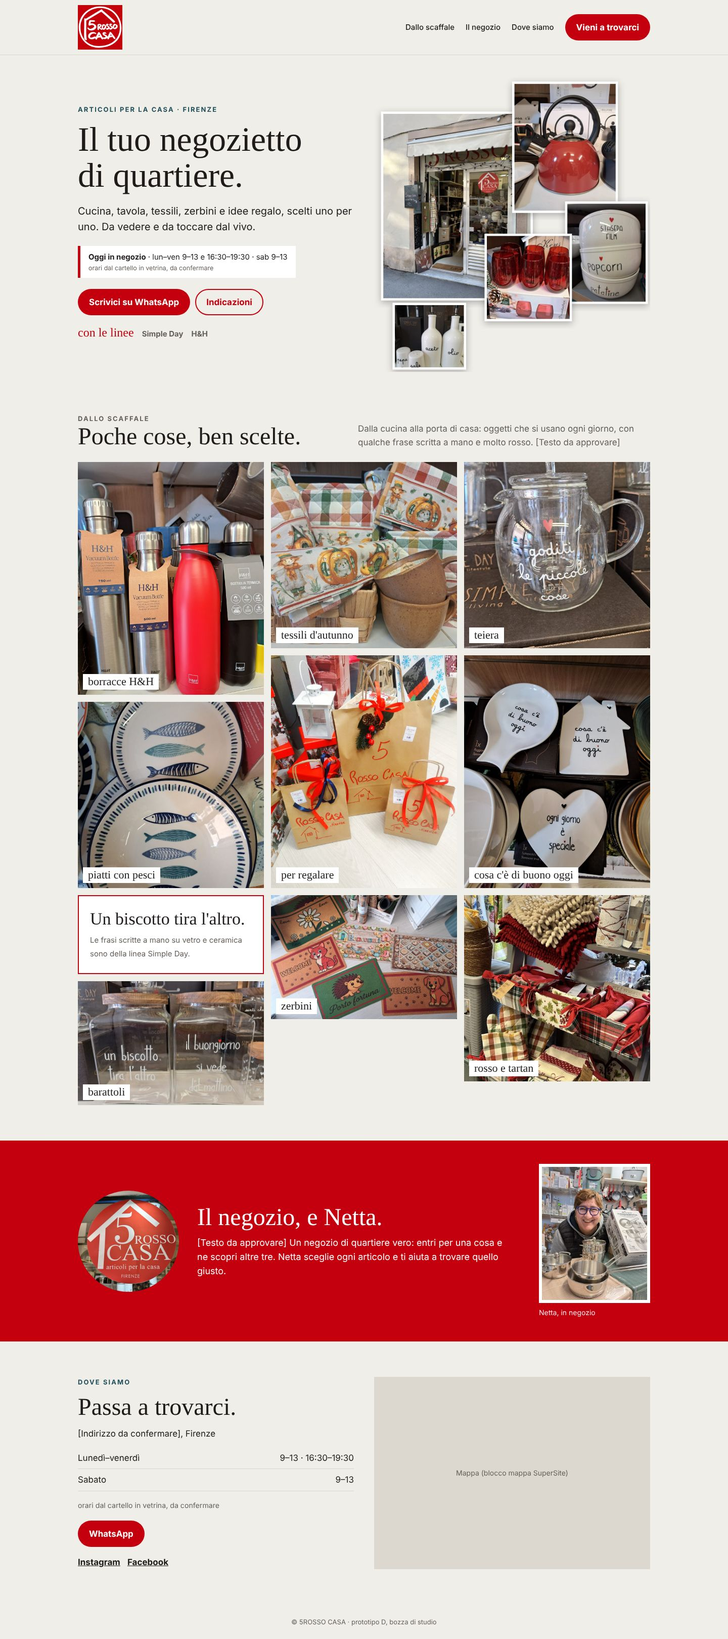
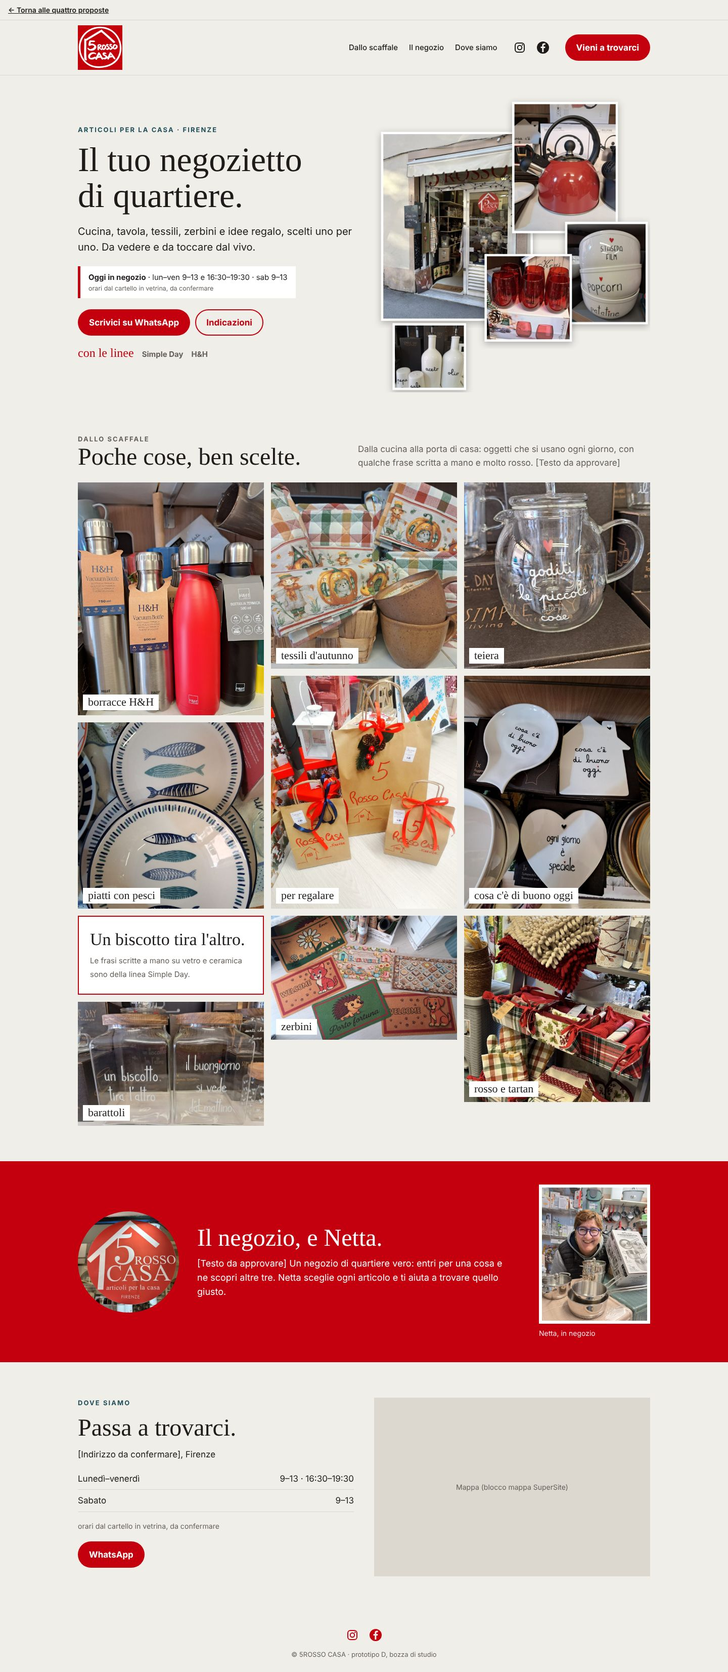
Icone Facebook/Instagram, comando di ritorno e navigazione nella stessa scheda
- icone SVG locali (Instagram, Facebook) in header e footer di A-D, link verificati, aperti in nuova scheda con etichette accessibili
- barra «Torna alle quattro proposte» (link diretto, fissa) in ciascun prototipo
- link interni senza target=_blank; rimossi href="#" dai pulsanti
- anteprime rigenerate

Claude-Session: https://claude.ai/code/session_01Wie8PVtFxXNJm6k2L4bQJj

diff --git a/B/index.html b/B/index.html
@@ -7,7 +7,7 @@
 img{display:block;width:100%;height:100%;object-fit:cover}a{color:inherit;text-decoration:none}
 .app{display:grid;grid-template-columns:300px 1fr;min-height:100vh}
 /* colonna indice fissa: l'architettura è l'indice */
-.rail{position:sticky;top:0;height:100vh;border-right:1px solid var(--riga);padding:24px;display:flex;flex-direction:column;gap:18px;overflow:auto}
+.rail{position:sticky;top:40px;height:calc(100vh - 40px);border-right:1px solid var(--riga);padding:24px;display:flex;flex-direction:column;gap:18px;overflow:auto}
 .rail img.logo{width:136px;height:auto}.rail h1{font:700 30px/1.05 'Archivo Narrow',sans-serif;text-transform:uppercase;margin:0}
 .rail ol{list-style:none;margin:0;padding:0;border-top:1px solid var(--riga)}.rail li a{display:flex;gap:12px;padding:10px 0;border-bottom:1px solid #0002;font-weight:500}
 .rail li a span{font:700 13px 'Archivo Narrow';color:var(--rosso);width:24px;padding-top:3px}.rail li a:hover{background:#f4efe9}
@@ -15,7 +15,7 @@ img{display:block;width:100%;height:100%;object-fit:cover}a{color:inherit;text-d
 .chips{display:none}.brand{display:none}
 main{min-width:0}
 /* primo schermo: mosaico fotografico rigido con gutter sottili */
-.bento{height:100vh;display:grid;grid-template-columns:repeat(6,1fr);grid-template-rows:repeat(4,1fr);gap:2px;background:var(--riga)}
+.bento{height:calc(100vh - 40px);display:grid;grid-template-columns:repeat(6,1fr);grid-template-rows:repeat(4,1fr);gap:2px;background:var(--riga)}
 .bento a{position:relative;overflow:hidden;background:#fff}.bento a b{position:absolute;left:0;bottom:0;background:#fff;font:700 12px 'Archivo Narrow';text-transform:uppercase;letter-spacing:.08em;padding:4px 8px}
 .bento a:nth-child(1){grid-column:1/4;grid-row:1/4}.bento a:nth-child(2){grid-column:4/7;grid-row:1/3}.bento a:nth-child(3){grid-column:4/5;grid-row:3/5}
 .bento a:nth-child(4){grid-column:5/7;grid-row:3/5}.bento a:nth-child(5){grid-column:1/2;grid-row:4/5}.bento a:nth-child(6){grid-column:2/4;grid-row:4/5}
@@ -34,19 +34,21 @@ figcaption{position:absolute;left:0;bottom:0;background:#fff;padding:5px 10px;fo
 @media(max-width:860px){
  .app{display:block}.rail{display:none}
  .brand{display:flex;align-items:center;gap:14px;padding:14px 16px;border-bottom:1px solid var(--riga)}.brand img{width:96px;height:96px;flex:none}.brand b{font:700 24px/1.05 'Archivo Narrow',sans-serif;text-transform:uppercase}
- .chips{display:flex;gap:8px;overflow-x:auto;position:sticky;top:0;z-index:9;background:#fff;border-bottom:1px solid var(--riga);padding:10px 12px;align-items:center}
+ .chips{display:flex;gap:8px;overflow-x:auto;position:sticky;top:40px;z-index:9;background:#fff;border-bottom:1px solid var(--riga);padding:10px 12px;align-items:center}
  .chips img{width:34px;height:34px;flex:none}.chips a{flex:none;border:1px solid var(--riga);padding:6px 12px;font:700 13px 'Archivo Narrow';text-transform:uppercase}
  .bento{height:auto;grid-template-columns:1fr 1fr;grid-template-rows:none;grid-auto-rows:44vw}.bento a:nth-child(n){grid-column:auto;grid-row:auto}.bento a:nth-child(1){grid-column:1/3;grid-row:span 2}
  .fam header{grid-template-columns:44px 1fr;padding:16px}.fam header p{grid-column:2}.fam header .n{font-size:30px}.fam header h2{font-size:26px}
  .mod{grid-template-columns:1fr 1fr;grid-template-rows:auto}.mod .lead,.mod .lead.w{grid-column:1/3;grid-row:auto;aspect-ratio:1}.mod .s{aspect-ratio:1;min-height:auto}.bento a:nth-child(6){grid-column:1/3}.mod .lead.w{aspect-ratio:3/2}
  .linee,.dove{grid-template-columns:1fr}.linee div{border-right:0;border-bottom:1px solid var(--riga)}.negozio{grid-template-columns:140px 1fr;padding:16px}}
-</style></head><body>
+.soc{display:flex;align-items:center;gap:2px}.soc .ic{display:inline-grid;place-items:center;width:44px;height:44px;color:inherit;text-decoration:none;border-radius:50%}.soc .ic svg{width:24px;height:24px;display:block}.soc .ic:focus-visible,.back:focus-visible{outline:2px solid currentColor;outline-offset:2px}html{scroll-padding-top:40px}body{padding-top:40px}.back{position:fixed;top:0;left:0;right:0;height:40px;z-index:100;display:flex;align-items:center;padding:0 16px;font-size:14px;font-weight:600;line-height:1;text-decoration:none;border-bottom:1px solid}.back:hover{text-decoration:underline}.back{background:#fff;color:#16120f;border-color:#16120f;font-family:'Archivo Narrow',Archivo,sans-serif;text-transform:uppercase;letter-spacing:.06em}.rail .soc{margin:-8px 0 -4px -10px}.brand .soc{margin:2px 0 0 -10px}.dove .soc{margin:12px 0 0 -10px;color:#f5eee6}</style></head><body>
+<svg width="0" height="0" style="position:absolute" aria-hidden="true" focusable="false"><symbol id="i-ig" viewBox="0 0 24 24"><rect x="3" y="3" width="18" height="18" rx="5" fill="none" stroke="currentColor" stroke-width="2"/><circle cx="12" cy="12" r="4.2" fill="none" stroke="currentColor" stroke-width="2"/><circle cx="17.4" cy="6.6" r="1.3" fill="currentColor"/></symbol><symbol id="i-fb" viewBox="0 0 24 24"><path fill="currentColor" fill-rule="evenodd" d="M12 0a12 12 0 1 0 0 24 12 12 0 0 0 0-24zM13.4 21v-8h2.7l.4-3.1h-3.1V8c0-.9.3-1.5 1.6-1.5h1.7V3.7c-.3 0-1.3-.1-2.4-.1-2.4 0-4 1.4-4 4.1v2.2H7.6V13h2.7v8h3.1z"/></symbol></svg>
+<a class="back" href="../index.html">← Torna alle quattro proposte</a>
 <div class="app">
-<aside class="rail"><img class="logo" src="../img/logo_5rossocasa_hand2_web.png" alt="Logo 5 Rosso Casa"><h1>Tutto per la casa, in sei famiglie.</h1>
+<aside class="rail"><img class="logo" src="../img/logo_5rossocasa_hand2_web.png" alt="Logo 5 Rosso Casa"><h1>Tutto per la casa, in sei famiglie.</h1><div class="soc"><a class="ic" href="https://www.instagram.com/5rosso_casa_/" target="_blank" rel="noopener noreferrer" aria-label="Instagram di 5 Rosso Casa (si apre in una nuova scheda)" title="Instagram · si apre in una nuova scheda"><svg aria-hidden="true" focusable="false"><use href="#i-ig"/></svg></a><a class="ic" href="https://www.facebook.com/5rossoflorence/?locale=it_IT" target="_blank" rel="noopener noreferrer" aria-label="Facebook di 5 Rosso Casa (si apre in una nuova scheda)" title="Facebook · si apre in una nuova scheda"><svg aria-hidden="true" focusable="false"><use href="#i-fb"/></svg></a></div>
 <ol><li><a href="#f1"><span>01</span>Tavola</a></li><li><a href="#f2"><span>02</span>Cucina</a></li><li><a href="#f3"><span>03</span>Dispensa e vetro</a></li><li><a href="#f4"><span>04</span>Tessili</a></li><li><a href="#f5"><span>05</span>Ingresso</a></li><li><a href="#f6"><span>06</span>Regali e dettagli</a></li><li><a href="#linee"><span>+</span>Le due linee</a></li><li><a href="#dove"><span>→</span>Dove siamo</a></li></ol>
 <div class="hrs"><b>5 Rosso Casa · Firenze</b><br>Lun–ven 9–13 · 16:30–19:30<br>Sab 9–13</div></aside>
 <main>
-<div class="brand"><img src="../img/logo_5rossocasa_hand2_web.png" alt="Logo 5 Rosso Casa"><b>Tutto per la casa, in sei famiglie.</b></div>
+<div class="brand"><img src="../img/logo_5rossocasa_hand2_web.png" alt="Logo 5 Rosso Casa"><div><b>Tutto per la casa, in sei famiglie.</b><div class="soc"><a class="ic" href="https://www.instagram.com/5rosso_casa_/" target="_blank" rel="noopener noreferrer" aria-label="Instagram di 5 Rosso Casa (si apre in una nuova scheda)" title="Instagram · si apre in una nuova scheda"><svg aria-hidden="true" focusable="false"><use href="#i-ig"/></svg></a><a class="ic" href="https://www.facebook.com/5rossoflorence/?locale=it_IT" target="_blank" rel="noopener noreferrer" aria-label="Facebook di 5 Rosso Casa (si apre in una nuova scheda)" title="Facebook · si apre in una nuova scheda"><svg aria-hidden="true" focusable="false"><use href="#i-fb"/></svg></a></div></div></div>
 <div class="chips"><img src="../img/logo_5rossocasa_hand2_web.png" alt="Logo" style="height:34px"><a href="#f1">01 Tavola</a><a href="#f2">02 Cucina</a><a href="#f3">03 Dispensa</a><a href="#f4">04 Tessili</a><a href="#f5">05 Ingresso</a><a href="#f6">06 Regali</a><a href="#dove">Dove</a></div>
 <div class="bento">
 <a href="#f2"><img src="../img/hh_bollitori_rosso_grigio.jpg" alt="Bollitori rosso e grigio"><b>Cucina</b></a>
@@ -88,5 +90,5 @@ figcaption{position:absolute;left:0;bottom:0;background:#fff;padding:5px 10px;fo
 
 <section class="linee" id="linee"><div><h3>Simple Day</h3><p>Ceramiche e vetri con frasi scritte a mano.</p></div><div><h3>H&amp;H</h3><p>Pentole, bollitori e borracce.</p></div></section>
 <section class="negozio"><img src="../img/netta_con_pentole.jpg" alt="Netta, titolare del negozio"><div><b>Il negozio.</b> [Testo da approvare] Non è un catalogo: i prodotti si vedono dal vivo. Chiedi a Netta.</div></section>
-<section class="dove" id="dove"><div><h2 style="font:700 34px 'Archivo Narrow';text-transform:uppercase;margin:0 0 10px">Dove siamo</h2><p>[Indirizzo da confermare], Firenze<br>Lun–ven 9–13 · 16:30–19:30 · sab 9–13<br><small>(orari dal cartello, da confermare)</small></p><p><a class="btn" href="#">WhatsApp</a> &nbsp; <a href="#" style="text-decoration:underline">Instagram</a> · <a href="#" style="text-decoration:underline">Facebook</a></p></div><div class="map">Mappa (blocco mappa SuperSite)</div></section>
+<section class="dove" id="dove"><div><h2 style="font:700 34px 'Archivo Narrow';text-transform:uppercase;margin:0 0 10px">Dove siamo</h2><p>[Indirizzo da confermare], Firenze<br>Lun–ven 9–13 · 16:30–19:30 · sab 9–13<br><small>(orari dal cartello, da confermare)</small></p><p><a class="btn" role="link" aria-disabled="true" title="Numero WhatsApp da confermare">WhatsApp</a> </p><div class="soc"><a class="ic" href="https://www.instagram.com/5rosso_casa_/" target="_blank" rel="noopener noreferrer" aria-label="Instagram di 5 Rosso Casa (si apre in una nuova scheda)" title="Instagram · si apre in una nuova scheda"><svg aria-hidden="true" focusable="false"><use href="#i-ig"/></svg></a><a class="ic" href="https://www.facebook.com/5rossoflorence/?locale=it_IT" target="_blank" rel="noopener noreferrer" aria-label="Facebook di 5 Rosso Casa (si apre in una nuova scheda)" title="Facebook · si apre in una nuova scheda"><svg aria-hidden="true" focusable="false"><use href="#i-fb"/></svg></a></div></div><div class="map">Mappa (blocco mappa SuperSite)</div></section>
 </main></div></body></html>

diff --git a/C/index.html b/C/index.html
@@ -6,7 +6,7 @@
 *{box-sizing:border-box}html{scroll-behavior:smooth;scroll-snap-type:y proximity}body{margin:0;background:var(--bg);color:var(--chiaro);font:17px/1.5 'Bricolage Grotesque',system-ui,sans-serif}
 img{display:block;width:100%;height:100%;object-fit:cover}a{color:inherit}
 .scene{position:relative;min-height:100svh;scroll-snap-align:start;overflow:hidden}
-.logo{position:fixed;top:16px;left:18px;z-index:20;width:clamp(104px,9vw,132px);transition:width .25s ease}.logo.sm{width:60px}.logo img{height:auto;box-shadow:0 2px 14px #0006}
+.logo{position:fixed;top:56px;left:18px;z-index:20;width:clamp(104px,9vw,132px);transition:width .25s ease}.logo.sm{width:60px}.logo img{height:auto;box-shadow:0 2px 14px #0006}
 .dots{position:fixed;right:16px;top:50%;transform:translateY(-50%);z-index:20;display:grid;gap:12px}.dots a{width:11px;height:11px;border-radius:50%;border:2px solid #fff;display:block;background:#0008}
 .big{font:700 clamp(54px,11vw,190px)/.88 'Bricolage Grotesque';letter-spacing:-.03em;margin:0}.hand{font:600 clamp(26px,3vw,40px) Caveat;color:#ffb3b3}
 /* 0 apertura: un solo macro-dettaglio a tutto schermo */
@@ -27,12 +27,15 @@ img{display:block;width:100%;height:100%;object-fit:cover}a{color:inherit}
 .s4 .in{padding:90px 34px 34px;display:flex;flex-direction:column;justify-content:center;gap:14px;background:var(--chiaro);color:#241f1d}
 .btn{display:inline-block;background:var(--rosso);color:#fff;text-decoration:none;font-weight:700;padding:13px 22px;border-radius:999px}.map{background:#d9cdbb;min-height:160px;display:grid;place-items:center;color:#7a7063;font-size:14px}
 @media(max-width:800px){
- html{scroll-snap-type:none}.dots{display:none}.logo{width:88px;top:12px;left:12px}.logo.sm{width:48px}.s0 .t{flex-direction:column;align-items:flex-start;gap:6px}
+ html{scroll-snap-type:none}.dots{display:none}.logo{width:88px;top:52px;left:12px}.logo.sm{width:48px}.s0 .t{flex-direction:column;align-items:flex-start;gap:6px}
  .s1{padding-top:70px}.s1 .row{grid-template-columns:1fr 1fr;gap:8px}.s1 .row div:nth-child(3){grid-column:1/3;grid-row:1}.s1 .row div:nth-child(1){grid-row:2}.s1 .row div:nth-child(2){grid-row:2;align-self:start}.wide img{aspect-ratio:4/3}
  .s2{padding:70px 4vw}.s2 .collage{display:block}.s2 .collage div{margin-top:-10vw;position:relative}.s2 .collage div:first-child{margin-top:0}.c1{width:92%}.c2{width:60%;margin-left:36%}.c3{width:70%}.c4{width:52%;margin-left:44%}.c1 img,.c3 img{aspect-ratio:1}.c2 img,.c4 img{aspect-ratio:4/5}
  .s3 .three{grid-template-columns:1fr 1fr 1fr}.s4{display:block}.s4 .ph{min-height:70svh}.s4 .ph .polaroid{width:46vw;left:14px;bottom:16px}.s4 .in{padding:36px 20px}}
-</style></head><body>
+.soc{display:flex;align-items:center;gap:2px}.soc .ic{display:inline-grid;place-items:center;width:44px;height:44px;color:inherit;text-decoration:none;border-radius:50%}.soc .ic svg{width:24px;height:24px;display:block}.soc .ic:focus-visible,.back:focus-visible{outline:2px solid currentColor;outline-offset:2px}html{scroll-padding-top:40px}body{padding-top:40px}.back{position:fixed;top:0;left:0;right:0;height:40px;z-index:100;display:flex;align-items:center;padding:0 16px;font-size:14px;font-weight:600;line-height:1;text-decoration:none;border-bottom:1px solid}.back:hover{text-decoration:underline}.back{background:#171210;color:#f4ebe0;border-color:#ffffff30;font-family:'Bricolage Grotesque',system-ui,sans-serif}.socf{position:fixed;top:52px;right:14px;z-index:20;background:#171210cc;color:#f4ebe0;border-radius:999px;padding:2px 6px;box-shadow:0 2px 12px #0006;backdrop-filter:blur(4px)}.s4 .in .soc{color:#241f1d;margin-left:-10px}</style></head><body>
+<svg width="0" height="0" style="position:absolute" aria-hidden="true" focusable="false"><symbol id="i-ig" viewBox="0 0 24 24"><rect x="3" y="3" width="18" height="18" rx="5" fill="none" stroke="currentColor" stroke-width="2"/><circle cx="12" cy="12" r="4.2" fill="none" stroke="currentColor" stroke-width="2"/><circle cx="17.4" cy="6.6" r="1.3" fill="currentColor"/></symbol><symbol id="i-fb" viewBox="0 0 24 24"><path fill="currentColor" fill-rule="evenodd" d="M12 0a12 12 0 1 0 0 24 12 12 0 0 0 0-24zM13.4 21v-8h2.7l.4-3.1h-3.1V8c0-.9.3-1.5 1.6-1.5h1.7V3.7c-.3 0-1.3-.1-2.4-.1-2.4 0-4 1.4-4 4.1v2.2H7.6V13h2.7v8h3.1z"/></symbol></svg>
+<a class="back" href="../index.html">← Torna alle quattro proposte</a>
 <a class="logo" href="#s0"><img src="../img/logo_5rossocasa_hand2_web.png" alt="Logo 5 Rosso Casa"></a>
+<div class="soc socf"><a class="ic" href="https://www.instagram.com/5rosso_casa_/" target="_blank" rel="noopener noreferrer" aria-label="Instagram di 5 Rosso Casa (si apre in una nuova scheda)" title="Instagram · si apre in una nuova scheda"><svg aria-hidden="true" focusable="false"><use href="#i-ig"/></svg></a><a class="ic" href="https://www.facebook.com/5rossoflorence/?locale=it_IT" target="_blank" rel="noopener noreferrer" aria-label="Facebook di 5 Rosso Casa (si apre in una nuova scheda)" title="Facebook · si apre in una nuova scheda"><svg aria-hidden="true" focusable="false"><use href="#i-fb"/></svg></a></div>
 <nav class="dots" aria-label="Capitoli"><a href="#s0" title="Inizio"></a><a href="#s1" title="Parole a mano"></a><a href="#s2" title="Il rosso"></a><a href="#s3" title="Sotto i piedi"></a><a href="#s4" title="Vieni a trovarci"></a></nav>
 
 <section class="scene s0" id="s0"><img src="../img/dett_popcorn.jpg" alt="Dettaglio di una ciotola bianca con la scritta popcorn e un cuore rosso"><div class="t"><b>5 Rosso Casa · Firenze</b><span>scorri ↓</span></div></section>
@@ -50,6 +53,6 @@ img{display:block;width:100%;height:100%;object-fit:cover}a{color:inherit}
 <div class="three"><img src="../img/passatoie.jpg" alt="Passatoie con cani e gatti" style="aspect-ratio:4/5"><img src="../img/mosaico_zerbino_albero.jpg" alt="Zerbino albero della vita" style="aspect-ratio:4/5"><img src="../img/zerbini_gomma.jpg" alt="Zerbini in gomma con piante"></div></section>
 
 <section class="scene s4" id="s4"><div class="ph"><img src="../img/hero_facciata_mobile.jpg" alt="Ingresso del negozio 5 Rosso Casa a Firenze" style="object-position:50% 30%"><figure class="polaroid"><img src="../img/netta_piumini_tartan.jpg" alt="Netta, titolare del negozio, sorride tra due paraspifferi in tartan rosso"><figcaption>Netta, in negozio</figcaption></figure></div>
-<div class="in"><div class="hand" style="color:var(--rosso)">ultimo capitolo</div><h2 style="font:700 clamp(36px,4vw,56px)/1 'Bricolage Grotesque';margin:0">Il resto, dal vivo.</h2><p>[Indirizzo da confermare], Firenze<br>Lun–ven 9–13 · 16:30–19:30 · sab 9–13<br><small>(orari dal cartello, da confermare)</small></p><p><a class="btn" href="#">Scrivici su WhatsApp</a></p><p><a href="#">Instagram</a> · <a href="#">Facebook</a></p><div class="map">Mappa (blocco mappa SuperSite)</div></div></section>
+<div class="in"><div class="hand" style="color:var(--rosso)">ultimo capitolo</div><h2 style="font:700 clamp(36px,4vw,56px)/1 'Bricolage Grotesque';margin:0">Il resto, dal vivo.</h2><p>[Indirizzo da confermare], Firenze<br>Lun–ven 9–13 · 16:30–19:30 · sab 9–13<br><small>(orari dal cartello, da confermare)</small></p><p><a class="btn" role="link" aria-disabled="true" title="Numero WhatsApp da confermare">Scrivici su WhatsApp</a></p><div class="soc"><a class="ic" href="https://www.instagram.com/5rosso_casa_/" target="_blank" rel="noopener noreferrer" aria-label="Instagram di 5 Rosso Casa (si apre in una nuova scheda)" title="Instagram · si apre in una nuova scheda"><svg aria-hidden="true" focusable="false"><use href="#i-ig"/></svg></a><a class="ic" href="https://www.facebook.com/5rossoflorence/?locale=it_IT" target="_blank" rel="noopener noreferrer" aria-label="Facebook di 5 Rosso Casa (si apre in una nuova scheda)" title="Facebook · si apre in una nuova scheda"><svg aria-hidden="true" focusable="false"><use href="#i-fb"/></svg></a></div><div class="map">Mappa (blocco mappa SuperSite)</div></div></section>
 <script>(function(){var l=document.querySelector('.logo');function f(){l.classList.toggle('sm',(window.scrollY||document.documentElement.scrollTop)>60)}f();addEventListener('scroll',f,{passive:true})})()</script>
 </body></html>

diff --git a/index.html b/index.html
@@ -33,10 +33,10 @@ th{background:#efe7db;font-size:13px;text-transform:uppercase;letter-spacing:.04
 <header><h1>5ROSSO CASA — quattro proposte a confronto</h1><p>Il negozio come <b>luogo</b> (A), come <b>universo di prodotti</b> (B), come <b>esperienza di scoperta</b> (C) e una <b>sintesi</b> (D). Scorri dentro ogni riquadro per vedere la pagina intera; i pulsanti aprono il prototipo navigabile.</p></header>
 <div class="bar"><button data-v="desktop" class="on" aria-pressed="true">Desktop · pagina intera</button><button data-v="mobile" aria-pressed="false">Mobile · pagina intera</button><button data-v="primo" aria-pressed="false">Primo schermo</button><span class="stw"><button id="st" aria-pressed="false">Confronta le strutture</button><button id="inf" class="inf" type="button" aria-label="Che cosa fa questo pulsante?" aria-expanded="false" aria-controls="infotip">ⓘ</button><span id="infotip" class="tip" role="tooltip" hidden>Questa modalità elimina temporaneamente colori e decorazioni per mostrarti come sono organizzate le quattro pagine. Serve a confrontare le diverse soluzioni indipendentemente dal loro stile grafico.</span></span><div class="sp"></div></div>
 <div class="cols">
-<div class="col"><h2><b>A</b> · Il negozio come luogo</h2><p class="c">Narrazione verticale: dal luogo alle persone, poi i prodotti.</p><div class="frame"><img class="d" src="anteprime/A_desktop_pagina-intera.jpg?v=2" alt="A desktop, pagina intera" loading="lazy"><img class="m" src="anteprime/A_mobile_pagina-intera.jpg?v=2" alt="A mobile, pagina intera" loading="lazy"><img class="pd" src="anteprime/A_desktop_primo-schermo.jpg?v=2" alt="A primo schermo desktop"><img class="pm" src="anteprime/A_mobile_primo-schermo.jpg?v=2" alt="A primo schermo mobile"></div><div class="links"><a href="A/index.html" target="_blank" rel="noopener">Apri prototipo</a><a class="o" href="anteprime/A_desktop_pagina-intera.jpg?v=2" target="_blank">Desktop intera</a><a class="o" href="anteprime/A_mobile_pagina-intera.jpg?v=2" target="_blank">Mobile intera</a></div></div>
-<div class="col"><h2><b>B</b> · Il negozio come universo di prodotti</h2><p class="c">Indice a sei famiglie, moduli fotografici, navigazione per categoria.</p><div class="frame"><img class="d" src="anteprime/B_desktop_pagina-intera.jpg?v=2" alt="B desktop, pagina intera" loading="lazy"><img class="m" src="anteprime/B_mobile_pagina-intera.jpg?v=2" alt="B mobile, pagina intera" loading="lazy"><img class="pd" src="anteprime/B_desktop_primo-schermo.jpg?v=2" alt="B primo schermo desktop"><img class="pm" src="anteprime/B_mobile_primo-schermo.jpg?v=2" alt="B primo schermo mobile"></div><div class="links"><a href="B/index.html" target="_blank" rel="noopener">Apri prototipo</a><a class="o" href="anteprime/B_desktop_pagina-intera.jpg?v=2" target="_blank">Desktop intera</a><a class="o" href="anteprime/B_mobile_pagina-intera.jpg?v=2" target="_blank">Mobile intera</a></div></div>
-<div class="col"><h2><b>C</b> · Il negozio come esperienza di scoperta</h2><p class="c">Capitoli a tutto schermo, cambi di scala; il negozio arriva alla fine.</p><div class="frame"><img class="d" src="anteprime/C_desktop_pagina-intera.jpg?v=2" alt="C desktop, pagina intera" loading="lazy"><img class="m" src="anteprime/C_mobile_pagina-intera.jpg?v=2" alt="C mobile, pagina intera" loading="lazy"><img class="pd" src="anteprime/C_desktop_primo-schermo.jpg?v=2" alt="C primo schermo desktop"><img class="pm" src="anteprime/C_mobile_primo-schermo.jpg?v=2" alt="C primo schermo mobile"></div><div class="links"><a href="C/index.html" target="_blank" rel="noopener">Apri prototipo</a><a class="o" href="anteprime/C_desktop_pagina-intera.jpg?v=2" target="_blank">Desktop intera</a><a class="o" href="anteprime/C_mobile_pagina-intera.jpg?v=2" target="_blank">Mobile intera</a></div></div>
-<div class="col"><h2><b>D</b> · Sintesi: la vetrina composta</h2><p class="c">Apertura con negozio e offerta, muro di foto, Netta, informazioni. La più breve.</p><div class="frame"><img class="d" src="anteprime/D_desktop_pagina-intera.jpg?v=2" alt="D desktop, pagina intera" loading="lazy"><img class="m" src="anteprime/D_mobile_pagina-intera.jpg?v=2" alt="D mobile, pagina intera" loading="lazy"><img class="pd" src="anteprime/D_desktop_primo-schermo.jpg?v=2" alt="D primo schermo desktop"><img class="pm" src="anteprime/D_mobile_primo-schermo.jpg?v=2" alt="D primo schermo mobile"></div><div class="links"><a href="D/index.html" target="_blank" rel="noopener">Apri prototipo</a><a class="o" href="anteprime/D_desktop_pagina-intera.jpg?v=2" target="_blank">Desktop intera</a><a class="o" href="anteprime/D_mobile_pagina-intera.jpg?v=2" target="_blank">Mobile intera</a></div></div>
+<div class="col"><h2><b>A</b> · Il negozio come luogo</h2><p class="c">Narrazione verticale: dal luogo alle persone, poi i prodotti.</p><div class="frame"><img class="d" src="anteprime/A_desktop_pagina-intera.jpg?v=2" alt="A desktop, pagina intera" loading="lazy"><img class="m" src="anteprime/A_mobile_pagina-intera.jpg?v=2" alt="A mobile, pagina intera" loading="lazy"><img class="pd" src="anteprime/A_desktop_primo-schermo.jpg?v=2" alt="A primo schermo desktop"><img class="pm" src="anteprime/A_mobile_primo-schermo.jpg?v=2" alt="A primo schermo mobile"></div><div class="links"><a href="A/index.html">Apri prototipo</a><a class="o" href="anteprime/A_desktop_pagina-intera.jpg?v=2">Desktop intera</a><a class="o" href="anteprime/A_mobile_pagina-intera.jpg?v=2">Mobile intera</a></div></div>
+<div class="col"><h2><b>B</b> · Il negozio come universo di prodotti</h2><p class="c">Indice a sei famiglie, moduli fotografici, navigazione per categoria.</p><div class="frame"><img class="d" src="anteprime/B_desktop_pagina-intera.jpg?v=2" alt="B desktop, pagina intera" loading="lazy"><img class="m" src="anteprime/B_mobile_pagina-intera.jpg?v=2" alt="B mobile, pagina intera" loading="lazy"><img class="pd" src="anteprime/B_desktop_primo-schermo.jpg?v=2" alt="B primo schermo desktop"><img class="pm" src="anteprime/B_mobile_primo-schermo.jpg?v=2" alt="B primo schermo mobile"></div><div class="links"><a href="B/index.html">Apri prototipo</a><a class="o" href="anteprime/B_desktop_pagina-intera.jpg?v=2">Desktop intera</a><a class="o" href="anteprime/B_mobile_pagina-intera.jpg?v=2">Mobile intera</a></div></div>
+<div class="col"><h2><b>C</b> · Il negozio come esperienza di scoperta</h2><p class="c">Capitoli a tutto schermo, cambi di scala; il negozio arriva alla fine.</p><div class="frame"><img class="d" src="anteprime/C_desktop_pagina-intera.jpg?v=2" alt="C desktop, pagina intera" loading="lazy"><img class="m" src="anteprime/C_mobile_pagina-intera.jpg?v=2" alt="C mobile, pagina intera" loading="lazy"><img class="pd" src="anteprime/C_desktop_primo-schermo.jpg?v=2" alt="C primo schermo desktop"><img class="pm" src="anteprime/C_mobile_primo-schermo.jpg?v=2" alt="C primo schermo mobile"></div><div class="links"><a href="C/index.html">Apri prototipo</a><a class="o" href="anteprime/C_desktop_pagina-intera.jpg?v=2">Desktop intera</a><a class="o" href="anteprime/C_mobile_pagina-intera.jpg?v=2">Mobile intera</a></div></div>
+<div class="col"><h2><b>D</b> · Sintesi: la vetrina composta</h2><p class="c">Apertura con negozio e offerta, muro di foto, Netta, informazioni. La più breve.</p><div class="frame"><img class="d" src="anteprime/D_desktop_pagina-intera.jpg?v=2" alt="D desktop, pagina intera" loading="lazy"><img class="m" src="anteprime/D_mobile_pagina-intera.jpg?v=2" alt="D mobile, pagina intera" loading="lazy"><img class="pd" src="anteprime/D_desktop_primo-schermo.jpg?v=2" alt="D primo schermo desktop"><img class="pm" src="anteprime/D_mobile_primo-schermo.jpg?v=2" alt="D primo schermo mobile"></div><div class="links"><a href="D/index.html">Apri prototipo</a><a class="o" href="anteprime/D_desktop_pagina-intera.jpg?v=2">Desktop intera</a><a class="o" href="anteprime/D_mobile_pagina-intera.jpg?v=2">Mobile intera</a></div></div>
 
 </div>
 <script>

diff --git a/A/index.html b/A/index.html
@@ -7,11 +7,11 @@
 img{display:block;width:100%;height:auto}a{color:inherit}
 .serif{font-family:Newsreader,Georgia,serif}
 /* 1 primo schermo: il luogo e le informazioni pratiche */
-.first{position:relative;min-height:100svh;display:grid;grid-template-rows:1fr auto;background:#222}
+.first{position:relative;min-height:calc(100svh - 40px);display:grid;grid-template-rows:1fr auto;background:#222}
 .first picture,.first img{position:absolute;inset:0;width:100%;height:100%;object-fit:cover;object-position:50% 38%}
 .first .top{position:relative;padding:18px 24px;display:flex;justify-content:space-between;align-items:flex-start}
 .first .top img{position:static;width:clamp(100px,10vw,140px);height:auto;box-shadow:0 2px 14px #0006}
-.first .top a{color:#fff;text-decoration:none;font-size:14px;letter-spacing:.08em;text-transform:uppercase;text-shadow:0 1px 6px #0008;margin-left:18px}
+.first .top nav a{color:#fff;text-decoration:none;font-size:14px;letter-spacing:.08em;text-transform:uppercase;text-shadow:0 1px 6px #0008;margin-left:18px}
 .info{position:relative;background:var(--crema);padding:22px 24px;display:grid;grid-template-columns:1.2fr 1fr auto;gap:24px;align-items:center;border-top:6px solid var(--rosso)}
 .info h1{font:500 clamp(28px,3.2vw,42px)/1.1 Newsreader,serif;margin:0}.info small{display:block;color:var(--muto)}
 .btn{display:inline-block;background:var(--rosso);color:#fff;text-decoration:none;font-weight:600;padding:13px 22px;border-radius:3px;margin-right:8px}
@@ -36,13 +36,15 @@ footer{padding:26px;text-align:center;font-size:13px;color:var(--muto)}
 .bar{display:none}
 @media(max-width:800px){
  .first .top img{width:92px}
- .info{grid-template-columns:1fr;padding-bottom:84px}.first .top a{display:none}
- section{padding:56px 0}.cols{display:block}.cols>*+*{margin-top:26px}.s3 .b .small{width:70%}.strip,.two{grid-template-columns:1fr}.strip img{aspect-ratio:3/2}
+ .info{grid-template-columns:1fr;padding-bottom:84px}.first .top nav a{display:none}
+ section{padding:56px 0}footer{padding-bottom:84px}.cols{display:block}.cols>*+*{margin-top:26px}.s3 .b .small{width:70%}.strip,.two{grid-template-columns:1fr}.strip img{aspect-ratio:3/2}
  .bar{display:flex;position:fixed;left:0;right:0;bottom:0;z-index:9;background:var(--rosso);color:#fff;padding:12px 16px;justify-content:space-between;font-weight:600;font-size:15px}.bar a{text-decoration:none}}
-</style></head><body>
+.soc{display:flex;align-items:center;gap:2px}.soc .ic{display:inline-grid;place-items:center;width:44px;height:44px;color:inherit;text-decoration:none;border-radius:50%}.soc .ic svg{width:24px;height:24px;display:block}.soc .ic:focus-visible,.back:focus-visible{outline:2px solid currentColor;outline-offset:2px}html{scroll-padding-top:40px}body{padding-top:40px}.back{position:fixed;top:0;left:0;right:0;height:40px;z-index:100;display:flex;align-items:center;padding:0 16px;font-size:14px;font-weight:600;line-height:1;text-decoration:none;border-bottom:1px solid}.back:hover{text-decoration:underline}.back{background:#F7F0E4;color:#241f1d;border-color:#dccfbb;font-family:'Work Sans',system-ui,sans-serif}.first .top .soc{color:#fff}.first .top .soc svg{filter:drop-shadow(0 1px 5px #000a)}.r{display:flex;align-items:center;gap:10px}footer .soc{justify-content:center;color:var(--rosso);margin-bottom:6px}</style></head><body>
+<svg width="0" height="0" style="position:absolute" aria-hidden="true" focusable="false"><symbol id="i-ig" viewBox="0 0 24 24"><rect x="3" y="3" width="18" height="18" rx="5" fill="none" stroke="currentColor" stroke-width="2"/><circle cx="12" cy="12" r="4.2" fill="none" stroke="currentColor" stroke-width="2"/><circle cx="17.4" cy="6.6" r="1.3" fill="currentColor"/></symbol><symbol id="i-fb" viewBox="0 0 24 24"><path fill="currentColor" fill-rule="evenodd" d="M12 0a12 12 0 1 0 0 24 12 12 0 0 0 0-24zM13.4 21v-8h2.7l.4-3.1h-3.1V8c0-.9.3-1.5 1.6-1.5h1.7V3.7c-.3 0-1.3-.1-2.4-.1-2.4 0-4 1.4-4 4.1v2.2H7.6V13h2.7v8h3.1z"/></symbol></svg>
+<a class="back" href="../index.html">← Torna alle quattro proposte</a>
 <div class="first">
 <picture><source media="(max-width:800px)" srcset="../img/hero_facciata_mobile.jpg"><img src="../img/hero_facciata_desktop.jpg" alt="Ingresso del negozio 5 Rosso Casa a Firenze, con l'insegna rossa e la vetrina"></picture>
-<div class="top"><img src="../img/logo_5rossocasa_hand2_web.png" alt="Logo 5 Rosso Casa"><nav><a href="#soglia">La vetrina</a><a href="#dentro">Dentro</a><a href="#cosa">Cosa trovi</a><a href="#quartiere">Dove siamo</a></nav></div>
+<div class="top"><img src="../img/logo_5rossocasa_hand2_web.png" alt="Logo 5 Rosso Casa"><div class="r"><nav><a href="#soglia">La vetrina</a><a href="#dentro">Dentro</a><a href="#cosa">Cosa trovi</a><a href="#quartiere">Dove siamo</a></nav><div class="soc"><a class="ic" href="https://www.instagram.com/5rosso_casa_/" target="_blank" rel="noopener noreferrer" aria-label="Instagram di 5 Rosso Casa (si apre in una nuova scheda)" title="Instagram · si apre in una nuova scheda"><svg aria-hidden="true" focusable="false"><use href="#i-ig"/></svg></a><a class="ic" href="https://www.facebook.com/5rossoflorence/?locale=it_IT" target="_blank" rel="noopener noreferrer" aria-label="Facebook di 5 Rosso Casa (si apre in una nuova scheda)" title="Facebook · si apre in una nuova scheda"><svg aria-hidden="true" focusable="false"><use href="#i-fb"/></svg></a></div></div></div>
 <div class="info"><div><h1>5 Rosso Casa<small class="serif" style="font-size:20px;font-style:italic">articoli per la casa · Firenze</small></h1></div>
 <div><strong>[Indirizzo da confermare]</strong><small>Lun–ven 9–13 · 16:30–19:30 · sab 9–13</small></div>
 <div><a class="btn" href="#quartiere">Indicazioni</a><a class="btn o" href="#quartiere">WhatsApp</a></div></div></div>
@@ -59,8 +61,8 @@ footer{padding:26px;text-align:center;font-size:13px;color:var(--muto)}
 <div class="two"><div><h3>Simple Day</h3><p>Ceramiche e vetri con frasi scritte a mano.</p></div><div><h3>H&amp;H</h3><p>Pentole, bollitori, borracce.</p></div></div></div></section>
 
 <section id="quartiere" class="s5"><div class="wrap cols"><div class="a"><div class="lab" style="color:#ff8a8a">Dove siamo</div><p class="lead" style="margin-bottom:24px">[Indirizzo da confermare], Firenze</p>
-<table><tr><td>Lunedì–venerdì</td><td>9–13 · 16:30–19:30</td></tr><tr><td>Sabato</td><td>9–13</td></tr></table><p style="font-size:13px;opacity:.7">orari dal cartello in vetrina, da confermare</p><p><a class="btn" href="#">WhatsApp</a> <a href="#">Instagram</a> · <a href="#">Facebook</a></p></div>
+<table><tr><td>Lunedì–venerdì</td><td>9–13 · 16:30–19:30</td></tr><tr><td>Sabato</td><td>9–13</td></tr></table><p style="font-size:13px;opacity:.7">orari dal cartello in vetrina, da confermare</p><p><a class="btn" role="link" aria-disabled="true" title="Numero WhatsApp da confermare">WhatsApp</a></p></div>
 <div class="b"><div class="map">Mappa (blocco mappa SuperSite)</div></div></div></section>
-<footer>© 5ROSSO CASA · prototipo A — non è il sito pubblicato</footer>
+<footer><div class="soc"><a class="ic" href="https://www.instagram.com/5rosso_casa_/" target="_blank" rel="noopener noreferrer" aria-label="Instagram di 5 Rosso Casa (si apre in una nuova scheda)" title="Instagram · si apre in una nuova scheda"><svg aria-hidden="true" focusable="false"><use href="#i-ig"/></svg></a><a class="ic" href="https://www.facebook.com/5rossoflorence/?locale=it_IT" target="_blank" rel="noopener noreferrer" aria-label="Facebook di 5 Rosso Casa (si apre in una nuova scheda)" title="Facebook · si apre in una nuova scheda"><svg aria-hidden="true" focusable="false"><use href="#i-fb"/></svg></a></div>© 5ROSSO CASA · prototipo A — non è il sito pubblicato</footer>
 <div class="bar"><span>Oggi · 9–13 · 16:30–19:30</span><a href="#quartiere">Indicazioni →</a></div>
 </body></html>

diff --git a/D/index.html b/D/index.html
@@ -35,13 +35,15 @@ table{width:100%;border-collapse:collapse;margin:14px 0}td{padding:8px 0;border-
 footer{padding:24px;text-align:center;font-size:13px;color:var(--muto)}
 .bar{display:none}
 @media(max-width:860px){
- .open .cta{display:none}.top .wrap{height:88px}.top img{width:72px}.top nav{display:none}.top .btn{margin-left:auto;padding:10px 16px;font-size:14px}
+ .open .cta{display:none}.top .wrap{height:88px}.top img{width:72px}.top nav{display:none}.top .wrap{padding:0 12px;gap:6px}.top .soc{margin-left:auto}.soc .ic{width:36px;height:36px}.top .btn{margin-left:0;padding:10px 16px;font-size:14px}
  .open .wrap,.shop .wrap,.dove .wrap{grid-template-columns:1fr;gap:26px}.open .wrap{padding-top:22px}
  .mosaic{column-count:2;column-gap:10px}.mosaic>*{margin-bottom:10px}.mosaic figcaption{font-size:18px;left:6px;bottom:6px}
- .shop .a img{width:120px}.shop .n{max-width:200px}.dove{padding:44px 0 90px}.note b{font-size:26px}
+ .shop .a img{width:120px}.shop .n{max-width:200px}.dove{padding:44px 0 30px}footer{padding-bottom:84px}.note b{font-size:26px}
  .bar{display:flex;position:fixed;left:0;right:0;bottom:0;z-index:30;background:var(--ink);color:#fff;padding:10px 16px;gap:10px}.bar a{flex:1;text-align:center;text-decoration:none;font-weight:700;padding:10px;border-radius:999px;background:var(--rosso)}.bar a+a{background:none;border:2px solid #fff}}
-</style></head><body>
-<header class="top"><div class="wrap"><a href="#"><img src="../img/logo_5rossocasa_hand2_web.png" alt="Logo 5 Rosso Casa"></a><nav><a href="#scaffale">Dallo scaffale</a><a href="#negozio">Il negozio</a><a href="#dove">Dove siamo</a></nav><a class="btn" href="#dove">Vieni a trovarci</a></div></header>
+.soc{display:flex;align-items:center;gap:2px}.soc .ic{display:inline-grid;place-items:center;width:44px;height:44px;color:inherit;text-decoration:none;border-radius:50%}.soc .ic svg{width:24px;height:24px;display:block}.soc .ic:focus-visible,.back:focus-visible{outline:2px solid currentColor;outline-offset:2px}html{scroll-padding-top:40px}body{padding-top:40px}.back{position:fixed;top:0;left:0;right:0;height:40px;z-index:100;display:flex;align-items:center;padding:0 16px;font-size:14px;font-weight:600;line-height:1;text-decoration:none;border-bottom:1px solid}.back:hover{text-decoration:underline}.back{background:#EFEEE9;color:#1E1B1A;border-color:#d8d5cd;font-family:Figtree,system-ui,sans-serif}.top{top:40px}.top nav{margin-left:auto}.top .soc{color:var(--ink)}footer .soc{justify-content:center;color:var(--rosso);margin-bottom:6px}</style></head><body id="inizio">
+<svg width="0" height="0" style="position:absolute" aria-hidden="true" focusable="false"><symbol id="i-ig" viewBox="0 0 24 24"><rect x="3" y="3" width="18" height="18" rx="5" fill="none" stroke="currentColor" stroke-width="2"/><circle cx="12" cy="12" r="4.2" fill="none" stroke="currentColor" stroke-width="2"/><circle cx="17.4" cy="6.6" r="1.3" fill="currentColor"/></symbol><symbol id="i-fb" viewBox="0 0 24 24"><path fill="currentColor" fill-rule="evenodd" d="M12 0a12 12 0 1 0 0 24 12 12 0 0 0 0-24zM13.4 21v-8h2.7l.4-3.1h-3.1V8c0-.9.3-1.5 1.6-1.5h1.7V3.7c-.3 0-1.3-.1-2.4-.1-2.4 0-4 1.4-4 4.1v2.2H7.6V13h2.7v8h3.1z"/></symbol></svg>
+<a class="back" href="../index.html">← Torna alle quattro proposte</a>
+<header class="top"><div class="wrap"><a href="#inizio"><img src="../img/logo_5rossocasa_hand2_web.png" alt="Logo 5 Rosso Casa"></a><nav><a href="#scaffale">Dallo scaffale</a><a href="#negozio">Il negozio</a><a href="#dove">Dove siamo</a></nav><div class="soc"><a class="ic" href="https://www.instagram.com/5rosso_casa_/" target="_blank" rel="noopener noreferrer" aria-label="Instagram di 5 Rosso Casa (si apre in una nuova scheda)" title="Instagram · si apre in una nuova scheda"><svg aria-hidden="true" focusable="false"><use href="#i-ig"/></svg></a><a class="ic" href="https://www.facebook.com/5rossoflorence/?locale=it_IT" target="_blank" rel="noopener noreferrer" aria-label="Facebook di 5 Rosso Casa (si apre in una nuova scheda)" title="Facebook · si apre in una nuova scheda"><svg aria-hidden="true" focusable="false"><use href="#i-fb"/></svg></a></div><a class="btn" href="#dove">Vieni a trovarci</a></div></header>
 
 <section class="open"><div class="wrap"><div class="t">
 <p class="eyebrow">Articoli per la casa · Firenze</p><h1>Il tuo negozietto di quartiere.</h1>
@@ -71,8 +73,8 @@ footer{padding:24px;text-align:center;font-size:13px;color:var(--muto)}
 
 <section class="dove" id="dove"><div class="wrap"><div><p class="eyebrow">Dove siamo</p><h2>Passa a trovarci.</h2><p style="margin:14px 0 0">[Indirizzo da confermare], Firenze</p>
 <table><tr><td>Lunedì–venerdì</td><td>9–13 · 16:30–19:30</td></tr><tr><td>Sabato</td><td>9–13</td></tr></table><small style="color:var(--muto)">orari dal cartello in vetrina, da confermare</small>
-<p style="margin-top:18px"><a class="btn" href="#">WhatsApp</a></p><div class="social"><a href="#">Instagram</a><a href="#">Facebook</a></div></div>
+<p style="margin-top:18px"><a class="btn" role="link" aria-disabled="true" title="Numero WhatsApp da confermare">WhatsApp</a></p></div>
 <div class="map">Mappa (blocco mappa SuperSite)</div></div></section>
-<footer>© 5ROSSO CASA · prototipo D, bozza di studio</footer>
+<footer><div class="soc"><a class="ic" href="https://www.instagram.com/5rosso_casa_/" target="_blank" rel="noopener noreferrer" aria-label="Instagram di 5 Rosso Casa (si apre in una nuova scheda)" title="Instagram · si apre in una nuova scheda"><svg aria-hidden="true" focusable="false"><use href="#i-ig"/></svg></a><a class="ic" href="https://www.facebook.com/5rossoflorence/?locale=it_IT" target="_blank" rel="noopener noreferrer" aria-label="Facebook di 5 Rosso Casa (si apre in una nuova scheda)" title="Facebook · si apre in una nuova scheda"><svg aria-hidden="true" focusable="false"><use href="#i-fb"/></svg></a></div>© 5ROSSO CASA · prototipo D, bozza di studio</footer>
 <div class="bar"><a href="#dove">WhatsApp</a><a href="#dove">Indicazioni</a></div>
 </body></html>
